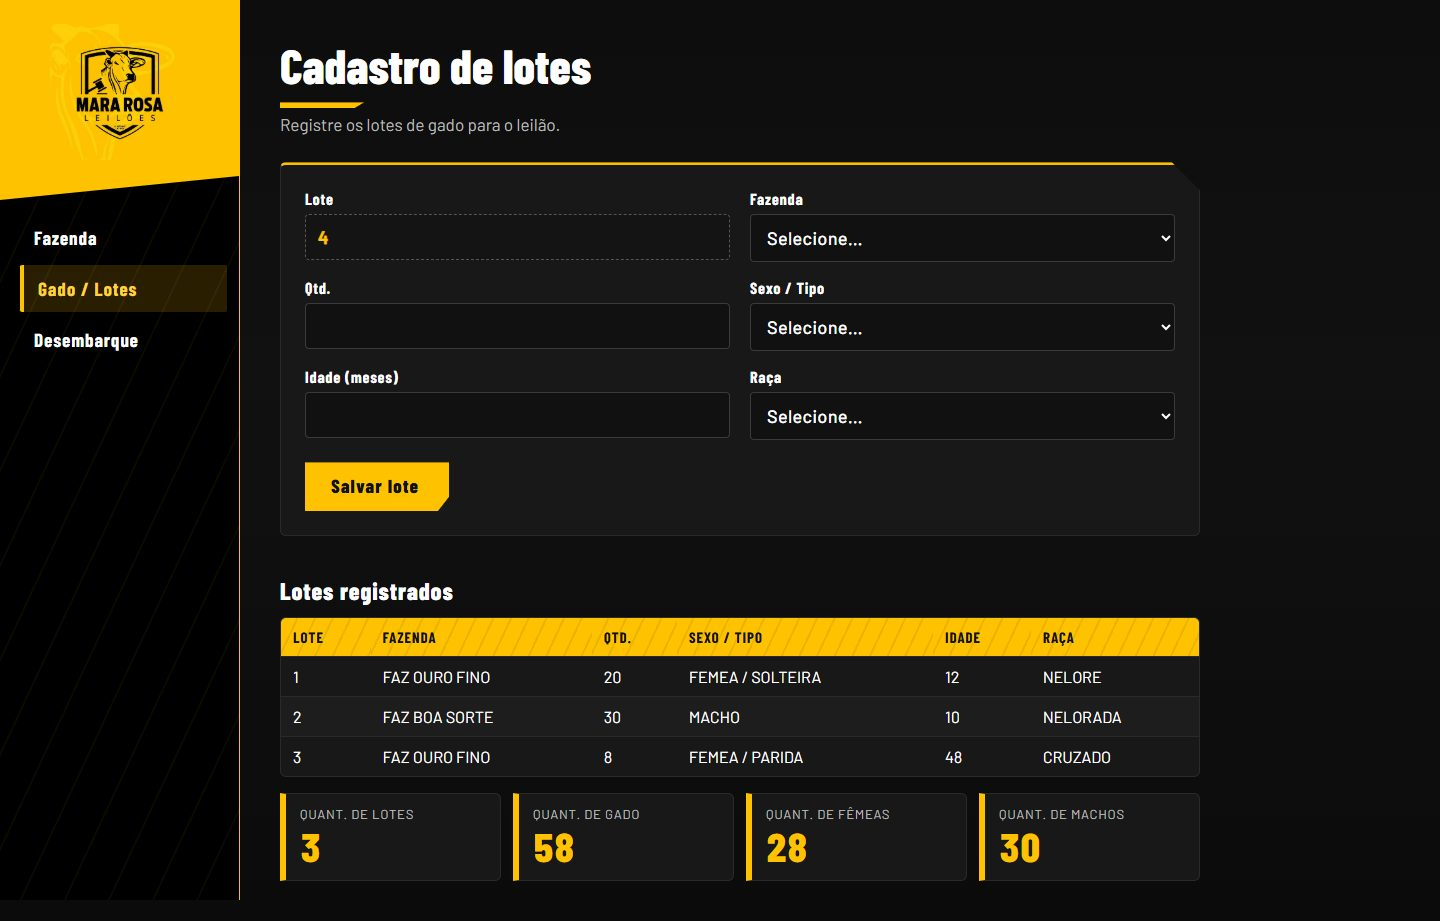
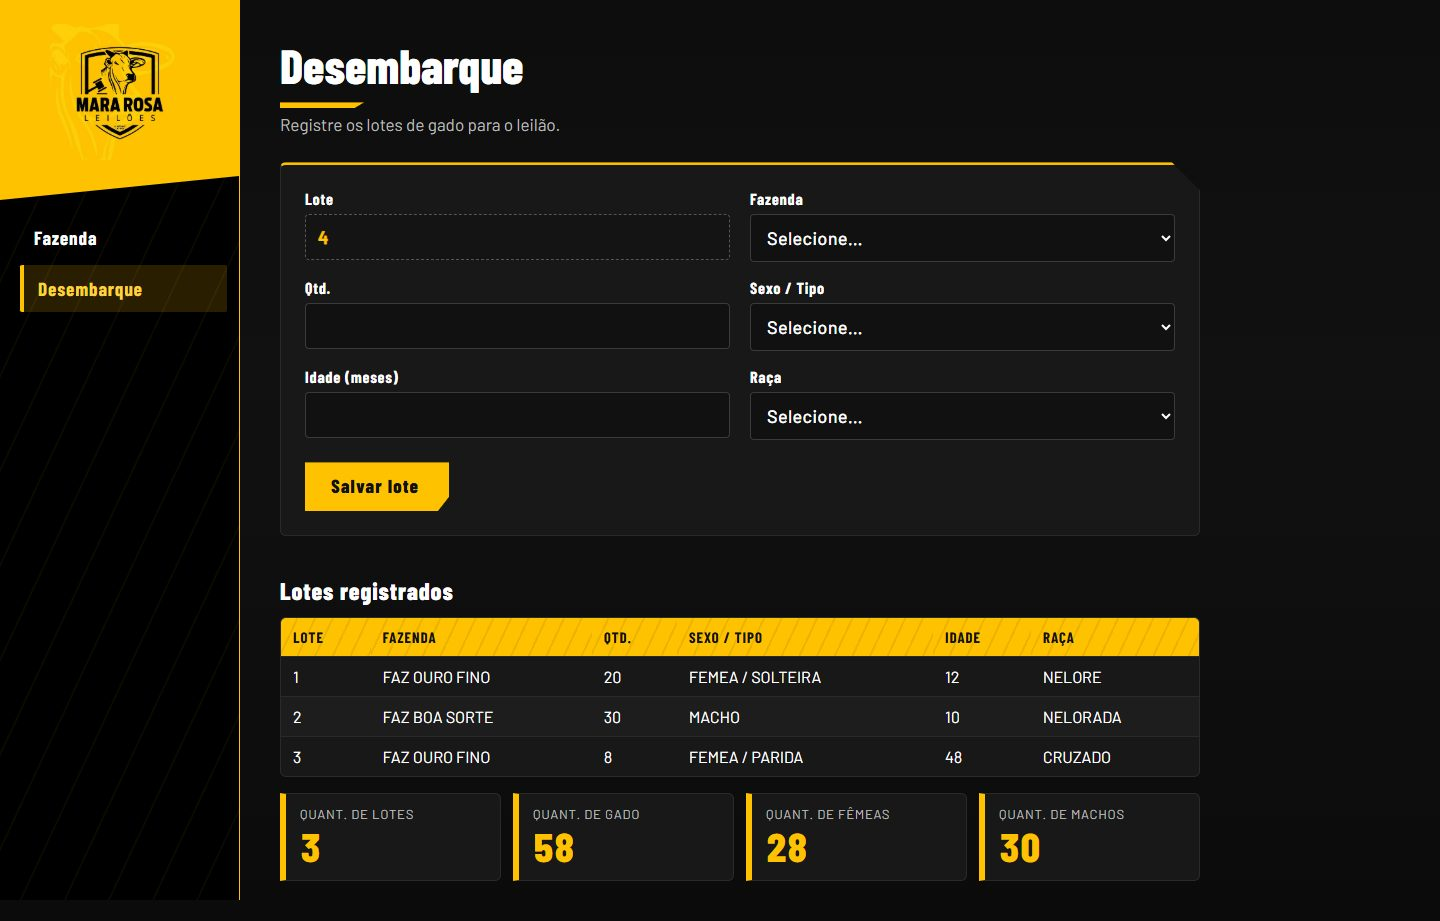
refactor: renomear aba de lotes para Desembarque e remover a aba antiga
- A aba "Gado / Lotes" passa a se chamar "Desembarque" (mesmo cadastro de lotes).
- A aba de registro de desembarque (UnloadingForm) foi removida, junto com o CSS
  que só ela usava.
- Prints do painel atualizados em docs/evidencias/.

Changed region(s): [[0.1875, 0.0608, 0.4062, 0.0912], [0.0312, 0.3648, 0.0938, 0.3952], [0.0312, 0.304, 0.0938, 0.3344]]

diff --git a/app/painel/page.js b/app/painel/page.js
@@ -3,12 +3,10 @@
 import { useState } from "react";
 import FarmForm from "./FarmForm";
 import CattleForm from "./CattleForm";
-import UnloadingForm from "./UnloadingForm";
 
 const SECTIONS = [
   { id: "farm", label: "Fazenda", title: "Cadastro da fazenda", sub: "Dados do titular e da propriedade." },
-  { id: "cattle", label: "Gado / Lotes", title: "Cadastro de lotes", sub: "Registre os lotes de gado para o leilão." },
-  { id: "unloading", label: "Desembarque", title: "Horário de desembarque", sub: "Registre e edite data e horário de desembarque." },
+  { id: "cattle", label: "Desembarque", title: "Desembarque", sub: "Registre os lotes de gado para o leilão." },
 ];
 
 export default function PainelPage() {
@@ -16,7 +14,6 @@ export default function PainelPage() {
   // TODO: carregar estes registros da API/MongoDB (hoje ficam só na sessão do navegador)
   const [farms, setFarms] = useState([]);
   const [lots, setLots] = useState([]);
-  const [unloadings, setUnloadings] = useState([]);
 
   const section = SECTIONS.find((s) => s.id === active);
 
@@ -43,15 +40,7 @@ export default function PainelPage() {
         <h1>{section.title}</h1>
         <p className="dsub">{section.sub}</p>
         {active === "farm" && <FarmForm records={farms} onAdd={(r) => setFarms((l) => [...l, r])} />}
-        {active === "cattle" && <CattleForm records={lots} farms={farms}onAdd={(r) => setLots((l) => [...l, r])} />}
-        {active === "unloading" && (
-          <UnloadingForm
-            records={unloadings}
-            lots={lots}
-            onAdd={(r) => setUnloadings((l) => [...l, r])}
-            onUpdate={(id, data) => setUnloadings((l) => l.map((r) => (r.id === id ? { ...r, ...data } : r)))}
-          />
-        )}
+        {active === "cattle" && <CattleForm records={lots} farms={farms} onAdd={(r) => setLots((l) => [...l, r])} />}
       </main>
     </div>
   );

diff --git a/app/globals.css b/app/globals.css
@@ -139,7 +139,6 @@ button:focus-visible{outline:3px solid var(--w);outline-offset:3px}
 
 /* Tabelas */
 .dash .tbl-lots table{min-width:640px}
-.dash .tbl-unl table{min-width:760px}
 .dash .tbl{overflow-x:auto;border:1px solid #2a2a2a;border-radius:6px;background:#181818}
 .dash table{width:100%;border-collapse:collapse;font-size:16px}
 .dash th{font:700 15px var(--font-display),sans-serif;letter-spacing:.06em;text-transform:uppercase;text-align:left;color:var(--k);background:var(--y) repeating-linear-gradient(115deg,transparent 0 14px,rgba(0,0,0,.07) 14px 16px);padding:10px 12px;white-space:nowrap}
@@ -177,5 +176,3 @@ button:focus-visible{outline:3px solid var(--w);outline-offset:3px}
 @media (prefers-reduced-motion:reduce){
  *,*::before,*::after{animation:none!important;transition:none!important}
 }
-/* form vazio usado só para ligar os campos de edição da tabela (atributo form=); não deve aparecer */
-.dash form.edit-form{display:none}
